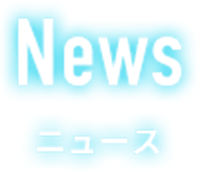
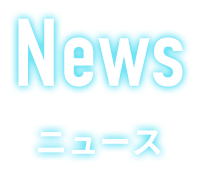
fix:newsタイトル画像差し替え

diff --git a/src/pages/special/index.js b/src/pages/special/index.js
@@ -1,0 +1,202 @@
+import React from "react"
+import * as styles from "./index.module.scss"
+import { Helmet } from "react-helmet"
+import PageTitle from "../../components/atoms/PageTitle"
+import BreadShort from "../../components/molecules/BreadShort"
+import MainContentsMiddle from "../../components/organisms/MainContentsMiddle"
+import ContentsInner from "../../components/organisms/ContentsInner"
+import LayoutTwoColumn from "../../components/templates/LayoutTwoColumn"
+import "slick-carousel/slick/slick.css"
+import "slick-carousel/slick/slick-theme.css"
+import BnrArt from "../../components/atoms/BnrArt"
+import TextLarge from "../../components/atoms/TextLarge"
+import Label03 from "../../components/molecules/Label03"
+import TextSmall from "../../components/atoms/TextSmall"
+
+const SpecialPage = ({ location }) => {
+  return (
+    <>
+      <Helmet>
+        <html lang="ja" />
+        {/* --------------------------------------- mal様修正範囲(meta情報) 開始 --------------------------------------- */}
+        <title>スペシャル | 「BLUE HUNTER」公式サイト</title>
+        <meta name="description" content="ブルーハンタープロジェクト公式サイト。2021年6月より漫画「BLUE HUNTER」を連載開始！最新ニュースや設定資料集、スペシャル情報等をこちらからお届けします。" />
+        <meta name="keywords" content="BLUE HUNTER, ブルーハンター, ブルーハンタープロジェクト, 無料漫画, アートコンペ " />
+        <link rel="canonical" href="https://manga.uminohi.jp/staff/" />
+        <meta property="og:url" content="https://manga.uminohi.jp/staff/" />
+        {/* --------------------------------------- mal様修正範囲(meta情報) 終了 --------------------------------------- */}
+        <meta property="og:type" content="article" />
+        <meta property="og:site_name" content="「BLUE HUNTER」公式サイト" />
+        <meta property="og:image" content="https://manga.uminohi.jp/ogp.png" />
+        <link rel="stylesheet" type="text/css" charset="UTF-8" href="https://cdnjs.cloudflare.com/ajax/libs/slick-carousel/1.6.0/slick.min.css" />
+        <link rel="stylesheet" type="text/css" href="https://cdnjs.cloudflare.com/ajax/libs/slick-carousel/1.6.0/slick-theme.min.css" />
+        <link rel="preload" as="image" href="/common/nav_text_news_hover.png" />
+        <link rel="preload" as="image" href="/common/nav_text_comic_hover.png" />
+        <link rel="preload" as="image" href="/common/nav_text_world_hover.png" />
+        <link rel="preload" as="image" href="/common/nav_text_characters_hover.png" />
+        <link rel="preload" as="image" href="/common/nav_text_staff_hover.png" />
+        <link rel="preload" as="image" href="/common/nav_text_special_hover.png" />
+        <link rel="preconnect" href="https://fonts.gstatic.com" />
+        <link href="https://fonts.googleapis.com/css2?family=Oswald:wght@400;500;700&display=swap" rel="stylesheet" />
+      </Helmet>
+
+      {/* --------------------------------------- mal様修正範囲 開始 --------------------------------------- */}
+      <LayoutTwoColumn pathname={location.pathname}>
+        {/* ページタイトル */}
+        <div className={styles.pageTitle_wrapper}>
+          <PageTitle src="/staff/ttl_staff.png" alt="Staff" />
+        </div>
+        {/* パンクズリスト */}
+        <BreadShort page01="TOP" href01="/" page02="スタッフ" />
+        <ContentsInner>
+          <MainContentsMiddle>
+            <div className={styles.contents_inner}>
+              <div className={styles.staff_name_item}>
+                <Label03 text={"総合プロデューサー"} />
+                <div className={styles.text_wrapper}>
+                  <TextLarge text={"波房 克典"} />
+                </div>
+              </div>
+              <div className={styles.staff_name_item}>
+                <Label03 text={"プロデューサー"} />
+                <div className={styles.text_wrapper}>
+                  <TextLarge text={"岡村 哲也  /  北畑 幸大  /  渡邉 雅儀"} />
+                </div>
+              </div>
+              <div className={styles.staff_name_item}>
+                <Label03 text={"制作ディレクター"} />
+                <div className={styles.text_wrapper}>
+                  <TextLarge text={"スミス みか / 注連 菜都美"} />
+                </div>
+              </div>
+              <div className={styles.staff_name_item}>
+                <Label03 text={"原作・脚本・キャラクター＆メカニック原案"} />
+                <div className={styles.text_wrapper}>
+                  <TextLarge text={"吾奏 伸"} />
+                </div>
+              </div>
+              <div className={styles.staff_name_item}>
+                <Label03 text={"クリエイティブディレクター"} />
+                <div className={styles.text_wrapper}>
+                  <TextLarge text={"内田 英武"} />
+                </div>
+              </div>
+              <div className={styles.staff_name_item}>
+                <Label03 text={"アシスタントディレクター"} />
+                <div className={styles.text_wrapper}>
+                  <TextLarge text={"石橋 明季"} />
+                </div>
+              </div>
+              <div className={styles.staff_name_item}>
+                <Label03 text={"プロダクションマネージャー"} />
+                <div className={styles.text_wrapper}>
+                  <TextLarge text={"笠原 貫太"} />
+                </div>
+              </div>
+              <div className={styles.staff_name_item}>
+                <Label03 text={"プロダクションデザイナー"} />
+                <div className={styles.text_wrapper}>
+                  <TextLarge text={"中村 郁美 / 佐藤 宏美"} />
+                </div>
+              </div>
+              <div className={styles.staff_name_item}>
+                <Label03 text={"ストーリーボード"} />
+                <div className={styles.text_wrapper}>
+                  <TextLarge text={"糸曽 賢志 / 内田 英武 / 石橋 明季"} />
+                </div>
+              </div>
+              <div className={styles.staff_name_item}>
+                <Label03 text={"キャラクターデザイン"} />
+                <div className={styles.text_wrapper}>
+                  <TextLarge text={"中村 郁美 / 佐藤 宏美 / 石橋 明季 / ヤマユキモリ"} />
+                </div>
+              </div>
+              <div className={styles.staff_name_item}>
+                <Label03 text={"メカニックデザイン"} />
+                <div className={styles.text_wrapper}>
+                  <TextLarge text={"佐藤 翔太 / ヤマユキモリ"} />
+                </div>
+              </div>
+              <div className={styles.staff_name_item}>
+                <Label03 text={"3Dモデリング"} />
+                <div className={styles.text_wrapper}>
+                  <TextLarge text={"大橋 永志 / 脇谷 喜紀(仮)"} />
+                </div>
+              </div>
+              <div className={styles.staff_name_item}>
+                <Label03 text={"３Dライティング＆コンポジット"} />
+                <div className={styles.text_wrapper}>
+                  <TextLarge text={"石橋 明季"} />
+                </div>
+              </div>
+              <div className={styles.staff_name_item}>
+                <Label03 text={"作画"} />
+                <div className={styles.text_wrapper}>
+                  <TextLarge
+                    text={
+                      "高橋 絵梨子 / 165. / まきむら / はなほの / 石橋 明季 / 中村 郁美 /"
+                    }
+                  />
+                  <TextLarge
+                    text={
+                      "佐藤 宏美 / 安田 悠一 / 黒棚 理解 / 天水 / こまちおファクトリー /"
+                    }
+                  />
+                  <TextLarge
+                    text={
+                      "白夜 ゆう / 早川 マコト / へるにゃー / もちうさ / 甲斐 千鶴 /"
+                    }
+                  />
+                  <TextLarge
+                    text={
+                      "ナツトモキ / 竹ノ輪 ちくわ / 宇野 ハジメ / 金田 なな"
+                    }
+                  />
+                </div>
+              </div>
+              <div className={styles.staff_name_item}>
+                <Label03 text={"翻訳"} />
+                <div className={styles.text_wrapper}>
+                  <TextLarge text={"デジタル職人株式会社"} />
+                </div>
+              </div>
+              <div className={styles.staff_name_item}>
+                <Label03 text={"WEBディレクター"} />
+                <div className={styles.text_wrapper}>
+                  <TextLarge text={"柏崎 絵美"} />
+                </div>
+              </div>
+              <div className={styles.staff_name_item}>
+                <Label03 text={"WEB制作"} />
+                <div className={styles.text_wrapper}>
+                  <TextLarge text={"株式会社 TAM"} />
+                </div>
+              </div>
+              <div className={styles.staff_name_item}>
+                <Label03 text={"プロモーション"} />
+                <div className={styles.text_wrapper}>
+                  <TextLarge text={"株式会社MyAnimeList"} />
+                </div>
+              </div>
+              <div className={styles.staff_name_item}>
+                <Label03 text={"協力"} />
+                <div className={styles.text_wrapper}>
+                  <TextLarge text={"株式会社クラフトフロー / 株式会社シュガーフォックス"} />
+                </div>
+              </div>
+              <div className={styles.text_small_wrapper}>
+                <TextSmall text={"Special Thank you\nMAL users & MAL moderators"} />
+              </div>
+            </div>
+          </MainContentsMiddle>
+          {/* --------------------------------------- mal様修正範囲 終了 --------------------------------------- */}
+        </ContentsInner>
+        <div className={styles.bnr_area}>
+          <BnrArt />
+        </div>
+      </LayoutTwoColumn>
+    </>
+  )
+}
+
+export default SpecialPage

diff --git a/src/pages/special/index.module.scss b/src/pages/special/index.module.scss
@@ -1,0 +1,61 @@
+@import "../../assets/scss/mixin";
+
+main {
+  position: relative;
+}
+.pageTitle_wrapper {
+  width: get_vw_sp(72);
+  margin: auto;
+
+  @include mq(md) {
+    width: get_vw(94);
+  }
+
+  & img {
+    image-rendering: -webkit-optimize-contrast;
+  }
+}
+.contents_inner {
+  margin: auto;
+  text-align: center;
+
+  @include mq(md) {
+  }
+}
+.bnr_area {
+  margin: get_vw_sp(28) calc(50% - 50vw);
+
+  @include mq(md) {
+    width: get_vw(786);
+    margin: get_vw(80) auto 0;
+  }
+}
+.text_wrapper {
+  margin-top: get_vw_sp(5);
+
+  @include mq(md) {
+    margin-top: get_vw(7);
+  }
+}
+.staff_name_item {
+  margin-top: get_vw_sp(23);
+  white-space: pre-line;
+
+  @include mq(md) {
+    margin-top: get_vw(30);
+    white-space: normal;
+  }
+
+  &:first-child {
+    margin-top: 0;
+  }
+}
+.text_small_wrapper {
+  white-space: pre-line;
+  margin-top: get_vw_sp(20);
+
+  @include mq(md) {
+    margin-top: get_vw(25);
+    white-space: normal;
+  }
+}
